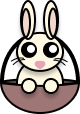
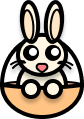
Commit before codebase redesign
Last commit before the codebase redesign. Also, there were new graphics added and the old ones were modified. Also I've created the SVG version of them all in case I'd switch to SVG rendering.

diff --git a/src/main.cpp b/src/main.cpp
@@ -1,3 +1,6 @@
+// External links:
+// > Color Palette: https://lospec.com/palette-list/vanilla-milkshake
+
 #include <vector>
 #include <memory>
 
@@ -26,11 +29,11 @@ private:
     raylib::Vector2 m_Velocity;
 
 public:
-    Egg(raylib::Window& window, raylib::Texture2D& texture, float position) : 
+    Egg(raylib::Window& window, raylib::Texture2D& texture, raylib::Color color, float position) : 
         m_Window(window),
         m_Texture(texture),
         m_BoundingRect(position, -128.0f, m_Texture.width, m_Texture.height),
-        m_Color(GetRandomValue(0, 255), GetRandomValue(0, 255), GetRandomValue(0, 255), 255),
+        m_Color(color),
         m_Gravity(0.0f, 1.6f),
         m_Velocity(0.0f, 0.0f) { 
             m_Texture.SetFilter(TEXTURE_FILTER_ANISOTROPIC_16X);
@@ -156,10 +159,9 @@ class EggController {
 private:
     raylib::Window& m_Window;
     raylib::Texture2D m_EggTexture;
+    const std::array<raylib::Color, 8> m_EggColorList;
 
     std::vector<std::unique_ptr<Egg>> m_EggList;
-
-    const float m_EggSpawnBoundOffset;
 
     const float m_EggSpawnDelayTime;
     Timer m_EggSpawnDelayTimer;
@@ -168,8 +170,8 @@ public:
     EggController(raylib::Window& window) :
         m_Window(window), 
         m_EggTexture("../res/txt/EasterHunt_Egg.png"),
+        m_EggColorList( { raylib::Color(108, 86, 113), raylib::Color(176, 169, 228), raylib::Color(249, 130, 132), raylib::Color(254, 170, 228), raylib::Color(172, 204, 228), raylib::Color(179, 227, 218), raylib::Color(176, 235, 147), raylib::Color(233, 245, 157) } ),
         m_EggList(0), 
-        m_EggSpawnBoundOffset(128.0f), 
         m_EggSpawnDelayTime(2.4f), 
         m_EggSpawnDelayTimer(6.4f) { }
 
@@ -177,7 +179,7 @@ public:
         m_EggSpawnDelayTimer.Process(m_Window.GetFrameTime());
 
         if(m_EggSpawnDelayTimer.Finished()) {
-            m_EggList.push_back(std::make_unique<Egg>(m_Window, m_EggTexture, GetRandomValue(1, m_Window.GetSize().y / 100.0f - 1) * 100));
+            m_EggList.push_back(std::make_unique<Egg>(m_Window, m_EggTexture, m_EggColorList.at(GetRandomValue(0, m_EggColorList.size() - 1)), GetRandomValue(1, m_Window.GetSize().y / 100.0f - 1) * 100));
             m_EggSpawnDelayTimer.Restart(m_EggSpawnDelayTime);
         }
 
@@ -227,7 +229,7 @@ int main(int argc, char** argv) {
             }
         }
  
-        window.BeginDrawing().ClearBackground(SKYBLUE);
+        window.BeginDrawing().ClearBackground(raylib::Color(172, 204, 228));
 
         player.Render();
         eggController.Render();
